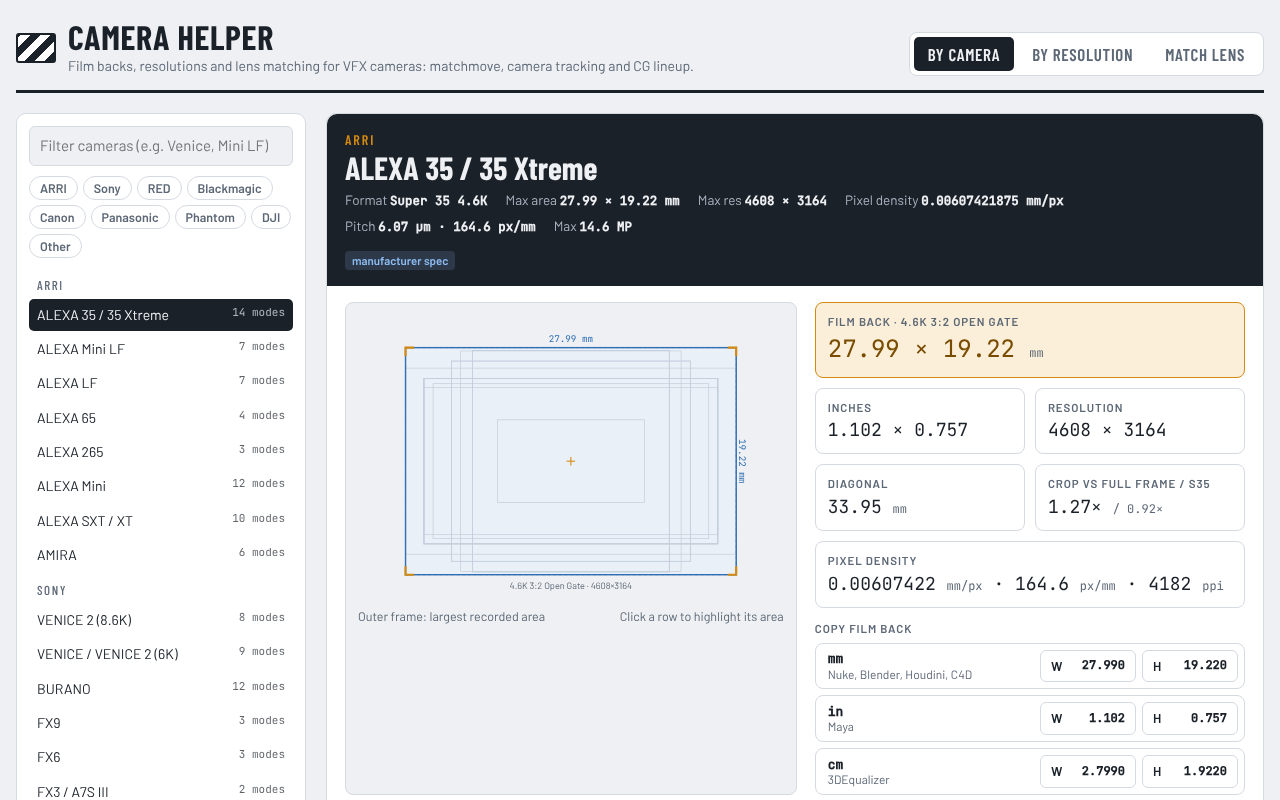
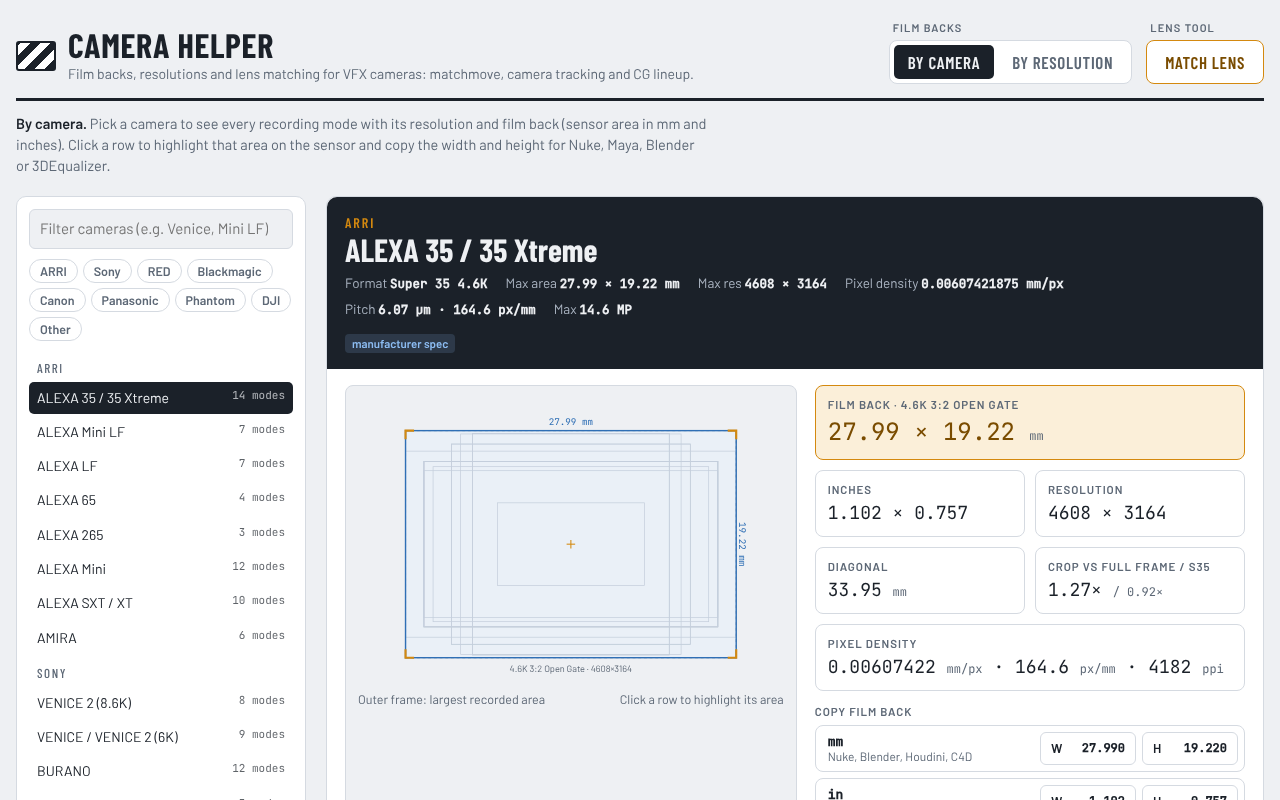
Update Camera Helper: grouped tabs with descriptions
Claude-Session: https://claude.ai/code/session_01ST2xBm77eZ5qYVJ1nehNRo

diff --git a/tools/camera-helper/index.html b/tools/camera-helper/index.html
@@ -31,6 +31,14 @@ h1{font-family:var(--f-display);font-weight:700;font-size:34px;letter-spacing:.0
 .tabs{display:flex;gap:4px;background:var(--panel);border:1px solid var(--line);border-radius:8px;padding:4px}
 .tab{font-family:var(--f-display);font-size:17px;font-weight:600;letter-spacing:.04em;text-transform:uppercase;border:0;background:transparent;color:var(--muted);padding:7px 14px;border-radius:5px;cursor:pointer}
 .tab[aria-selected="true"]{background:var(--ink);color:var(--bg)}
+.tabdesc{margin:12px 0 0;color:var(--muted);font-size:14.5px;max-width:90ch;text-wrap:pretty}
+.tabdesc b{color:var(--ink);font-weight:600}
+.tabgroups{display:flex;flex-wrap:wrap;gap:14px;align-items:flex-end}
+.tabgroup{display:flex;flex-direction:column;gap:4px}
+.tglabel{font-size:11px;font-weight:600;letter-spacing:.1em;text-transform:uppercase;color:var(--muted);padding-left:4px}
+.tabs-tool{border-color:var(--accent)}
+.tabs-tool .tab{color:var(--accent-ink)}
+.tabs-tool .tab[aria-selected="true"]{background:var(--accent);color:var(--panel)}
 .tab:focus-visible,button:focus-visible,input:focus-visible,select:focus-visible{outline:2px solid var(--accent);outline-offset:2px}
 
 .grid{display:grid;grid-template-columns:290px minmax(0,1fr);gap:20px;margin-top:20px}
@@ -150,12 +158,23 @@ label.f{display:flex;flex-direction:column;gap:4px;font-size:12px;font-weight:60
         <p class="sub">Film backs, resolutions and lens matching for VFX cameras: matchmove, camera tracking and CG lineup.</p>
       </div>
     </div>
-    <div class="tabs" role="tablist">
-      <button class="tab" role="tab" id="tab-cam" aria-selected="true">By camera</button>
-      <button class="tab" role="tab" id="tab-res" aria-selected="false">By resolution</button>
-      <button class="tab" role="tab" id="tab-lens" aria-selected="false">Match lens</button>
-    </div>
+    <nav class="tabgroups" role="tablist" aria-label="Sections">
+      <div class="tabgroup">
+        <span class="tglabel">Film backs</span>
+        <div class="tabs">
+          <button class="tab" role="tab" id="tab-cam" aria-selected="true">By camera</button>
+          <button class="tab" role="tab" id="tab-res" aria-selected="false">By resolution</button>
+        </div>
+      </div>
+      <div class="tabgroup">
+        <span class="tglabel">Lens tool</span>
+        <div class="tabs tabs-tool">
+          <button class="tab" role="tab" id="tab-lens" aria-selected="false">Match lens</button>
+        </div>
+      </div>
+    </nav>
   </header>
+  <p class="tabdesc" id="tabdesc" aria-live="polite"></p>
 
   <section id="view-cam">
     <div class="grid">
@@ -824,7 +843,12 @@ function search(){
 $("results").addEventListener("click",e=>{const r=e.target.closest("tr[data-c]");if(!r)return;state.cam=+r.dataset.c;state.mode=+r.dataset.m;save();setTab("cam");renderList();renderCam()});
 
 // ---- tabs / util ----
-function setTab(t){["cam","res","lens"].forEach(k=>{$("tab-"+k).setAttribute("aria-selected",t===k);$("view-"+k).hidden=t!==k});if(t==="res")search();if(t==="lens")lensCalc();window.scrollTo({top:0})}
+const TABDESC={
+  cam:"<b>By camera.</b> Pick a camera to see every recording mode with its resolution and film back (sensor area in mm and inches). Click a row to highlight that area on the sensor and copy the width and height for Nuke, Maya, Blender or 3DEqualizer.",
+  res:"<b>By resolution.</b> Enter a plate size to find which cameras and modes record it. One number matches either side, W×H matches both, and the tolerance setting finds near matches. Click a result to open that camera.",
+  lens:"<b>Match lens.</b> Pick the reference camera, its mode and lens, then the second camera. You get the focal length that gives the same framing, the nearest prime, and diagrams of both fields of view. Turn on Unlink cameras to set both lenses yourself and compare."
+};
+function setTab(t){$("tabdesc").innerHTML=TABDESC[t];["cam","res","lens"].forEach(k=>{$("tab-"+k).setAttribute("aria-selected",t===k);$("view-"+k).hidden=t!==k});if(t==="res")search();if(t==="lens")lensCalc();window.scrollTo({top:0})}
 $("tab-cam").onclick=()=>setTab("cam");$("tab-res").onclick=()=>setTab("res");$("tab-lens").onclick=()=>setTab("lens");
 
 // ---- lens matching ----
@@ -944,7 +968,7 @@ function copy(text){
   try{navigator.clipboard.writeText(text).then(done,()=>fallback(text))}catch(e){fallback(text)}
   function fallback(v){const ta=document.createElement("textarea");ta.value=v;document.body.appendChild(ta);ta.select();try{document.execCommand("copy");done()}catch(e){toast("Select and copy: "+v)}ta.remove()}
 }
-renderChips();renderList();renderCam();
+renderChips();renderList();renderCam();$("tabdesc").innerHTML=TABDESC.cam;
 </script>
 
 <a href="../../" class="site-back" style="position:fixed;left:12px;bottom:calc(12px + env(safe-area-inset-bottom,0px));z-index:99;font:600 12px system-ui,sans-serif;text-decoration:none;color:#fff;background:rgba(20,22,26,.82);padding:6px 11px;border-radius:999px;backdrop-filter:blur(6px)">&larr; All tools</a>

diff --git a/_source/camera-helper.html b/_source/camera-helper.html
@@ -32,6 +32,14 @@ h1{font-family:var(--f-display);font-weight:700;font-size:34px;letter-spacing:.0
 .tabs{display:flex;gap:4px;background:var(--panel);border:1px solid var(--line);border-radius:8px;padding:4px}
 .tab{font-family:var(--f-display);font-size:17px;font-weight:600;letter-spacing:.04em;text-transform:uppercase;border:0;background:transparent;color:var(--muted);padding:7px 14px;border-radius:5px;cursor:pointer}
 .tab[aria-selected="true"]{background:var(--ink);color:var(--bg)}
+.tabdesc{margin:12px 0 0;color:var(--muted);font-size:14.5px;max-width:90ch;text-wrap:pretty}
+.tabdesc b{color:var(--ink);font-weight:600}
+.tabgroups{display:flex;flex-wrap:wrap;gap:14px;align-items:flex-end}
+.tabgroup{display:flex;flex-direction:column;gap:4px}
+.tglabel{font-size:11px;font-weight:600;letter-spacing:.1em;text-transform:uppercase;color:var(--muted);padding-left:4px}
+.tabs-tool{border-color:var(--accent)}
+.tabs-tool .tab{color:var(--accent-ink)}
+.tabs-tool .tab[aria-selected="true"]{background:var(--accent);color:var(--panel)}
 .tab:focus-visible,button:focus-visible,input:focus-visible,select:focus-visible{outline:2px solid var(--accent);outline-offset:2px}
 
 .grid{display:grid;grid-template-columns:290px minmax(0,1fr);gap:20px;margin-top:20px}
@@ -151,12 +159,23 @@ label.f{display:flex;flex-direction:column;gap:4px;font-size:12px;font-weight:60
         <p class="sub">Film backs, resolutions and lens matching for VFX cameras: matchmove, camera tracking and CG lineup.</p>
       </div>
     </div>
-    <div class="tabs" role="tablist">
-      <button class="tab" role="tab" id="tab-cam" aria-selected="true">By camera</button>
-      <button class="tab" role="tab" id="tab-res" aria-selected="false">By resolution</button>
-      <button class="tab" role="tab" id="tab-lens" aria-selected="false">Match lens</button>
-    </div>
+    <nav class="tabgroups" role="tablist" aria-label="Sections">
+      <div class="tabgroup">
+        <span class="tglabel">Film backs</span>
+        <div class="tabs">
+          <button class="tab" role="tab" id="tab-cam" aria-selected="true">By camera</button>
+          <button class="tab" role="tab" id="tab-res" aria-selected="false">By resolution</button>
+        </div>
+      </div>
+      <div class="tabgroup">
+        <span class="tglabel">Lens tool</span>
+        <div class="tabs tabs-tool">
+          <button class="tab" role="tab" id="tab-lens" aria-selected="false">Match lens</button>
+        </div>
+      </div>
+    </nav>
   </header>
+  <p class="tabdesc" id="tabdesc" aria-live="polite"></p>
 
   <section id="view-cam">
     <div class="grid">
@@ -825,7 +844,12 @@ function search(){
 $("results").addEventListener("click",e=>{const r=e.target.closest("tr[data-c]");if(!r)return;state.cam=+r.dataset.c;state.mode=+r.dataset.m;save();setTab("cam");renderList();renderCam()});
 
 // ---- tabs / util ----
-function setTab(t){["cam","res","lens"].forEach(k=>{$("tab-"+k).setAttribute("aria-selected",t===k);$("view-"+k).hidden=t!==k});if(t==="res")search();if(t==="lens")lensCalc();window.scrollTo({top:0})}
+const TABDESC={
+  cam:"<b>By camera.</b> Pick a camera to see every recording mode with its resolution and film back (sensor area in mm and inches). Click a row to highlight that area on the sensor and copy the width and height for Nuke, Maya, Blender or 3DEqualizer.",
+  res:"<b>By resolution.</b> Enter a plate size to find which cameras and modes record it. One number matches either side, W×H matches both, and the tolerance setting finds near matches. Click a result to open that camera.",
+  lens:"<b>Match lens.</b> Pick the reference camera, its mode and lens, then the second camera. You get the focal length that gives the same framing, the nearest prime, and diagrams of both fields of view. Turn on Unlink cameras to set both lenses yourself and compare."
+};
+function setTab(t){$("tabdesc").innerHTML=TABDESC[t];["cam","res","lens"].forEach(k=>{$("tab-"+k).setAttribute("aria-selected",t===k);$("view-"+k).hidden=t!==k});if(t==="res")search();if(t==="lens")lensCalc();window.scrollTo({top:0})}
 $("tab-cam").onclick=()=>setTab("cam");$("tab-res").onclick=()=>setTab("res");$("tab-lens").onclick=()=>setTab("lens");
 
 // ---- lens matching ----
@@ -945,7 +969,7 @@ function copy(text){
   try{navigator.clipboard.writeText(text).then(done,()=>fallback(text))}catch(e){fallback(text)}
   function fallback(v){const ta=document.createElement("textarea");ta.value=v;document.body.appendChild(ta);ta.select();try{document.execCommand("copy");done()}catch(e){toast("Select and copy: "+v)}ta.remove()}
 }
-renderChips();renderList();renderCam();
+renderChips();renderList();renderCam();$("tabdesc").innerHTML=TABDESC.cam;
 </script>
 
 </body></html>
